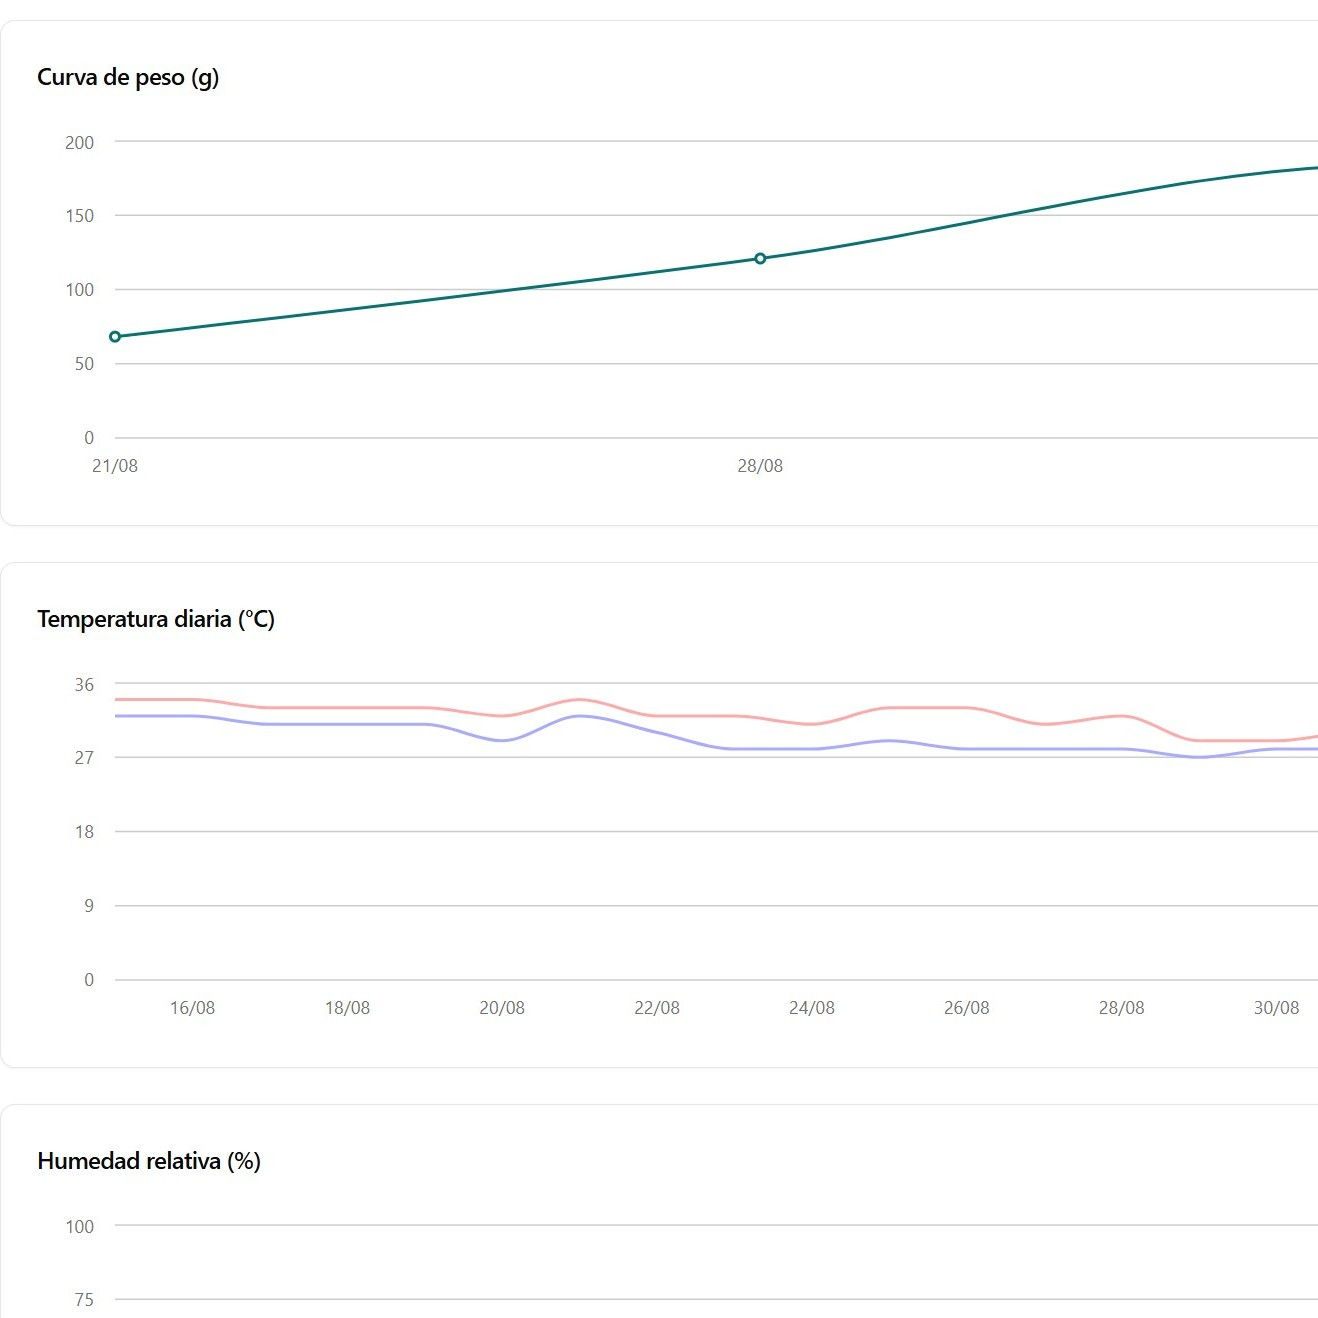
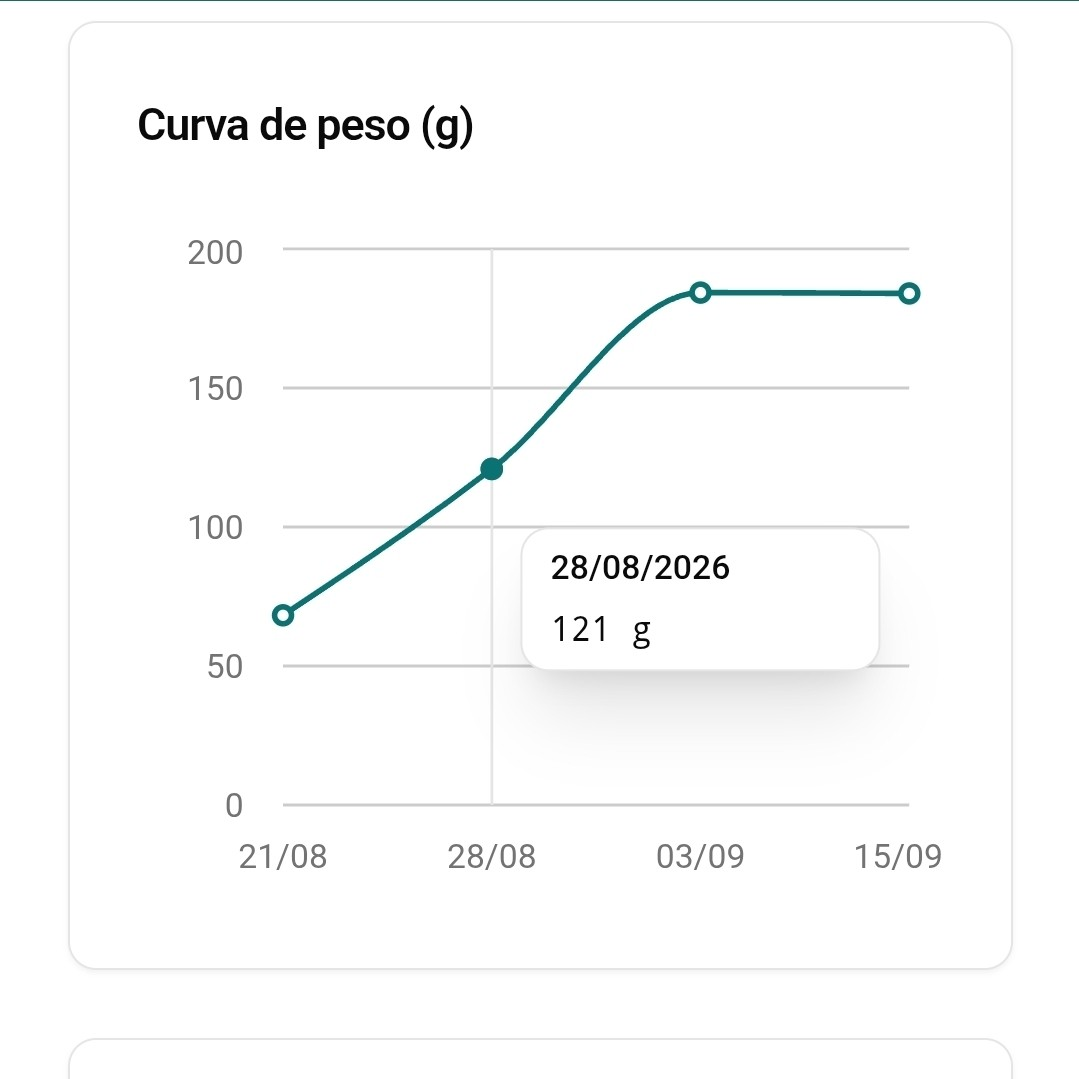
mejora de fotos y backend mailer

diff --git a/avimanager/index.html b/avimanager/index.html
@@ -196,6 +196,13 @@ src="https://www.facebook.com/tr?id=1386238589918832&ev=PageView&noscript=1"
           <p class="shot-caption">Historial por periodo</p>
           <p class="shot-sub">Compara semanas, ciclos y lotes sin recalcular nada a mano.</p>
         </div>
+        <div>
+          <button type="button" class="shot-zoom" aria-label="Ampliar captura: Mantenedor de alimentos">
+            <img class="shot-img" src="assets/img/shot-alimento.jpg" data-full="assets/img/shot-alimento-full.jpg" alt="Mantenedor de alimentos en Avimanager, con stock por dieta y marca" width="1080" height="1080" loading="lazy">
+          </button>
+          <p class="shot-caption">Mantenedor de alimentos</p>
+          <p class="shot-sub">Stock por dieta y marca, listo para asignar a cada lote.</p>
+        </div>
       </div>
     </div>
   </section>
@@ -386,7 +393,7 @@ src="https://www.facebook.com/tr?id=1386238589918832&ev=PageView&noscript=1"
         <div class="compare-item">
           <span class="compare-tag compare-tag-accent">3 · Resultados</span>
           <button type="button" class="compare-zoom" aria-label="Ampliar: gráficos y resultados en Avimanager">
-            <img class="compare-img" src="assets/img/resultados-graficos.jpg" data-full="assets/img/resultados-graficos-full.jpg" alt="Gráficos de curva de peso, temperatura y humedad calculados automáticamente en Avimanager" width="1318" height="1318" loading="lazy">
+            <img class="compare-img" src="assets/img/resultados-graficos.jpg" data-full="assets/img/resultados-graficos-full.jpg" alt="Curva de peso con detalle interactivo por fecha, calculada automáticamente en Avimanager" width="1079" height="1079" loading="lazy">
           </button>
         </div>
       </div>
@@ -517,29 +524,34 @@ src="https://www.facebook.com/tr?id=1386238589918832&ev=PageView&noscript=1"
 
   <!-- PLATAFORMAS -->
   <section class="platforms" id="plataformas">
-    <div class="wrap">
-      <div class="section-head center">
-        <span class="eyebrow">Plataformas</span>
-        <h2>Empieza en la web, sigue en el celular</h2>
-        <p>La operación diaria pasa en el galpón. Avimanager va con ella.</p>
+    <div class="wrap platforms-inner">
+      <div class="platforms-copy">
+        <div class="section-head">
+          <span class="eyebrow">Plataformas</span>
+          <h2>Empieza en la web, sigue en el celular</h2>
+          <p>La operación diaria pasa en el galpón. Avimanager va con ella.</p>
+        </div>
+        <div class="platform-list">
+          <div class="platform-item">
+            <div class="platform-icon">
+              <svg viewBox="0 0 24 24" fill="none" stroke="currentColor" stroke-width="1.8" stroke-linecap="round" stroke-linejoin="round" aria-hidden="true"><rect x="2" y="4" width="20" height="14" rx="2"/><line x1="8" y1="22" x2="16" y2="22"/><line x1="12" y1="18" x2="12" y2="22"/></svg>
+            </div>
+            <span class="platform-status status-ready">Disponible</span>
+            <h3>Aplicación web</h3>
+            <p>Funciona desde cualquier navegador, en el escritorio o el celular, sin instalar nada.</p>
+          </div>
+          <div class="platform-item">
+            <div class="platform-icon">
+              <svg viewBox="0 0 24 24" fill="none" stroke="currentColor" stroke-width="1.8" stroke-linecap="round" stroke-linejoin="round" aria-hidden="true"><rect x="6" y="2" width="12" height="20" rx="2"/><line x1="11" y1="18" x2="13" y2="18"/></svg>
+            </div>
+            <span class="platform-status status-soon">Pronto</span>
+            <h3>Instalable para Android e iOS</h3>
+            <p>Una versión instalable pensada para usarse directo desde el galpón, incluso con conexión débil.</p>
+          </div>
+        </div>
       </div>
-      <div class="platform-list">
-        <div class="platform-item">
-          <div class="platform-icon">
-            <svg viewBox="0 0 24 24" fill="none" stroke="currentColor" stroke-width="1.8" stroke-linecap="round" stroke-linejoin="round" aria-hidden="true"><rect x="2" y="4" width="20" height="14" rx="2"/><line x1="8" y1="22" x2="16" y2="22"/><line x1="12" y1="18" x2="12" y2="22"/></svg>
-          </div>
-          <span class="platform-status status-ready">Disponible</span>
-          <h3>Aplicación web</h3>
-          <p>Funciona desde cualquier navegador, en el escritorio o el celular, sin instalar nada.</p>
-        </div>
-        <div class="platform-item">
-          <div class="platform-icon">
-            <svg viewBox="0 0 24 24" fill="none" stroke="currentColor" stroke-width="1.8" stroke-linecap="round" stroke-linejoin="round" aria-hidden="true"><rect x="6" y="2" width="12" height="20" rx="2"/><line x1="11" y1="18" x2="13" y2="18"/></svg>
-          </div>
-          <span class="platform-status status-soon">Pronto</span>
-          <h3>Instalable para Android e iOS</h3>
-          <p>Una versión instalable pensada para usarse directo desde el galpón, incluso con conexión débil.</p>
-        </div>
+      <div class="phone-frame phone-frame-tall">
+        <img src="assets/img/shot-pesaje-mobile.jpg" alt="Pantalla de Pesaje de Avimanager vista en el celular, con resumen de peso y uniformidad por lote" class="phone-screen" width="1080" height="2126" loading="lazy">
       </div>
     </div>
   </section>

diff --git a/avimanager/assets/css/styles.css b/avimanager/assets/css/styles.css
@@ -556,7 +556,7 @@ ul, ol { padding: 0; margin: 0; list-style: none; }
 
 .shot-grid {
   display: grid;
-  grid-template-columns: repeat(3, 1fr);
+  grid-template-columns: repeat(4, 1fr);
   gap: var(--space-3);
 }
 
@@ -620,6 +620,10 @@ ul, ol { padding: 0; margin: 0; list-style: none; }
   margin: 0;
   font-size: 0.9rem;
   color: var(--ink-soft);
+}
+
+@media (max-width: 1100px) {
+  .shot-grid { grid-template-columns: repeat(2, 1fr); }
 }
 
 @media (max-width: 860px) {
@@ -1185,6 +1189,15 @@ ul, ol { padding: 0; margin: 0; list-style: none; }
    ============================================================ */
 .platforms { padding: var(--space-6) 0; background: var(--bg-alt); }
 
+.platforms-inner {
+  display: grid;
+  grid-template-columns: 1.15fr 0.85fr;
+  gap: var(--space-4);
+  align-items: center;
+}
+
+.phone-frame-tall { aspect-ratio: 1080 / 2126; max-width: 260px; }
+
 .platform-list {
   display: grid;
   grid-template-columns: repeat(2, 1fr);
@@ -1233,6 +1246,11 @@ ul, ol { padding: 0; margin: 0; list-style: none; }
 
 .platform-item h3 { margin-bottom: 0.3rem; font-size: 1.1rem; }
 .platform-item p { color: var(--ink-soft); font-size: 0.94rem; margin: 0; }
+
+@media (max-width: 860px) {
+  .platforms-inner { grid-template-columns: 1fr; }
+  .phone-frame-tall { margin: 0 auto; max-width: 220px; }
+}
 
 @media (max-width: 760px) {
   .platform-list { grid-template-columns: 1fr; }
